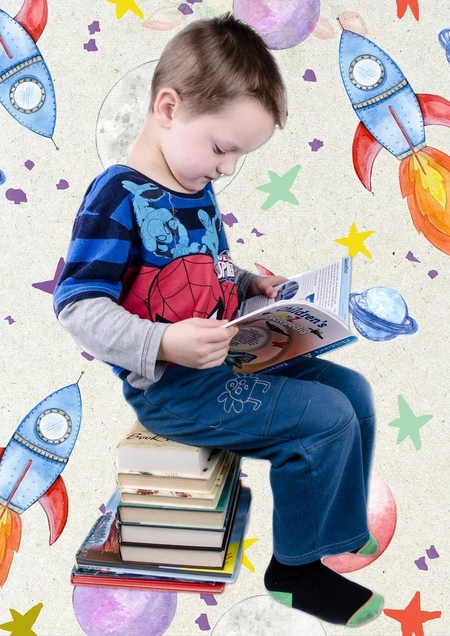
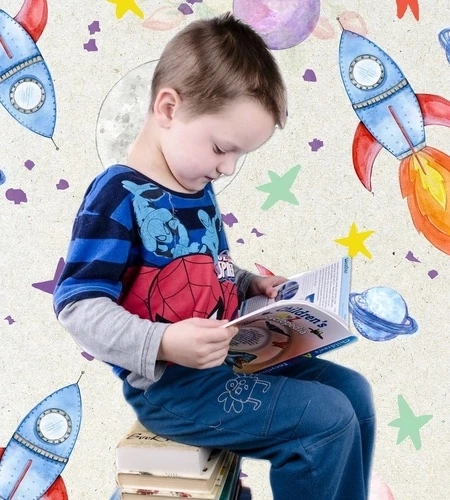
Completed the smaller hero with two different layouts for mobile and desktop. Also completed the Opening Hours section of the plan your visit page.

diff --git a/html/plan-visit.html b/html/plan-visit.html
@@ -17,6 +17,7 @@
         rel="stylesheet">
 
     <link rel="stylesheet" href="/stylesheet.css">
+    <link rel="stylesheet" href="/css/pages/plan-visit.css">
     <link rel="apple-touch-icon" sizes="180x180" href="assets/favicon/apple-touch-icon.png">
     <link rel="icon" type="image/png" sizes="32x32" href="assets/favicon/favicon-32x32.png">
     <link rel="icon" type="image/png" sizes="16x16" href="assets/favicon/favicon-16x16.png">
@@ -55,12 +56,97 @@
     </header>
     <main class="" id="main-content">
         <section class="hero-small">
+            <div class="hero-small__content">
+                <div class="hero-small__text">
+                    <h1>Plan your visit</h1>
+                    <p class="hero-small__text__p">Are you looking for information on how to get to the museum,
+                        the ticket prices, what exhibits are on, or our opening hours? You are in the right place.
+                    </p>
+                </div>
+                <div class="hero-small__cta">
+                    <a href="#opening-hours" class="button primary no-arrow">Opening hours</a>
+                    <a href="#getting-here" class="button primary no-arrow">Getting here</a>
+                    <a href="#prices" class="button primary no-arrow">Prices</a>
+                </div>
+            </div>
+            <div class="hero-small__image-container">
+                <img src="/assets/images/night-at-museum-roberto-nickson.webp"
+                    alt="Overview of museum in the night, with large elephant exhibition and grand marble arches of the different floors.">
+            </div>
         </section>
-        <section class="opening-hours">
+        <section class="opening-hours" id="opening-hours">
+            <div class="section__header">
+                <h2 class="opening-hours__heading">Opening hours</h2>
+                <!-- <p class="opening-hours__text">Check the opening hours of the museum, our cafe, and our gift
+                    shop. If you have any questions, or need help with a special event. Please contact us by following
+                    the links below.</p> -->
+            </div>
+            <div class="opening-hours__cards">
+                <div class="opening-hours__specific">
+                    <h3>Museum opening hours:</h3>
+                    <p>Monday to Thursday: 10:00 - 16:00</p>
+                    <p>Friday and Saturday: 10:00 - 19:00</p>
+                    <p>Sunday: 10:00 - 18:00</p>
+                </div>
+                <article class="card-s">
+                    <div class="card-s__image"><img src="/assets/images/scott-webb-102825.webp"
+                            alt="The outside wall of the Community Science Museum covered in large colorful tiles, with the word MUSEUM spelled out in differently colored tiles.">
+                    </div>
+                    <div class="card-s__content">
+                        <div class="card-s__text">
+                            <h3 class="card-s__heading">Museum</h3>
+                            <p class="card-s__description">The museum is open for all visitors in our opening hours.
+                                Guided tours are available within the opening hours. Planning an event, or have a
+                                request? Send us a message! </p>
+                        </div>
+                        <a href="/html/about.html#contact-us" class="button primary medium">Contact us</a>
+                    </div>
+                </article>
+                <div class="opening-hours__specific">
+                    <h3>Café opening hours:</h3>
+                    <p>Monday to Thursday: 11:00 - 15:00</p>
+                    <p>Friday and Saturday: 10:00 - 18:00</p>
+                    <p>Sunday: 10:00 - 17:00</p>
+                </div>
+                <article class="card-s">
+                    <div class="card-s__image"><img src="/assets/images/kids-ASphotofamily.webp"
+                            alt="A young boy and his todler sister standing next to a cafe counter looking at the selection of juices and fresh food.">
+                    </div>
+                    <div class="card-s__content">
+                        <div class="card-s__text">
+                            <h3 class="card-s__heading">Café</h3>
+                            <p class="card-s__description">There is a café attached to the museum where you can get
+                                light lunches, soft drinks, coffee, snacks and more. Having a party, or any special
+                                requests? Get in touch! </p>
+                        </div>
+                        <a href="/html/about.html#contact-us" class="button primary medium">Contact us</a>
+                    </div>
+                </article>
+                <div class="opening-hours__specific">
+                    <h3>Shop opening hours:</h3>
+                    <p>Monday to Thursday: 10:00 - 16:00</p>
+                    <p>Friday and Saturday: 10:00 - 19:00</p>
+                    <p>Sunday: 10:00 - 18:00</p>
+                </div>
+                <article class="card-s">
+                    <div class="card-s__image"><img src="/assets/images/reading-2762010_1280.webp"
+                            alt="A young boy reading a book in front of a background image with drawings of rockets, stars, and planets.">
+                    </div>
+                    <div class="card-s__content">
+                        <div class="card-s__text">
+                            <h3 class="card-s__heading">Shop</h3>
+                            <p class="card-s__description">Our shop offers a range of memorabilia from the museum and
+                                activity packs to continue exploring science at home. We also provide kits for schools.
+                                Want an offer? </p>
+                        </div>
+                        <a href="/html/about.html#contact-us" class="button primary medium">Contact us</a>
+                    </div>
+                </article>
+            </div>
         </section>
-        <section class="getting-here">
+        <section class="getting-here" id="getting-here">
         </section>
-        <section class="prices">
+        <section class="prices" id="prices">
         </section>
     </main>
     <footer class="footer">

diff --git a/css/components/sections/hero-small.css b/css/components/sections/hero-small.css
@@ -1,0 +1,83 @@
+.hero-small {
+    display: flex;
+    justify-content: center;
+    align-items: center;
+    color: var(--color-white);
+    background-image: linear-gradient(#0D0D0D90, #0D0D0D90),
+        url(/assets/images/night-at-museum-roberto-nickson.webp);
+    background-size: cover;
+    min-height: 85vh;
+}
+
+.hero-small__content {
+    display: flex;
+    flex-direction: column;
+    gap: var(--gap-xlarge);
+    padding-left: var(--padding-large);
+    padding-right: var(--padding-large);
+    max-width: 1028px;
+}
+
+.hero-small__text {
+    display: flex;
+    flex-direction: column;
+    gap: var(--gap-large);
+    max-width: 720px;
+}
+
+.hero-small__text__p {
+    font-size: var(--body-large);
+    line-height: 28px;
+}
+
+.hero-small__cta {
+    display: flex;
+    justify-content: center;
+    align-items: center;
+    flex-wrap: wrap;
+    gap: var(--gap-medium);
+    max-width: 720px;
+}
+
+.hero-small__image-container {
+    display: none;
+}
+
+/* Tablet 768px */
+@media (min-width: 768px) {
+    .hero-small {
+        display: flex;
+        justify-content: center;
+        align-items: center;
+        color: var(--color-white);
+        background-image: none;
+        background-color: var(--color-black);
+        gap: 16px;
+        min-height: 60vh;
+    }
+
+    .hero-small__content {
+        padding-right: 0;
+        max-width: 50%;
+    }
+
+    .hero-small__image-container {
+        display: flex;
+        justify-content: center;
+        align-items: center;
+        padding-right: var(--padding-large);
+    }
+
+}
+
+/* Laptop 1024px */
+@media (min-width: 1024px) {
+
+    .hero-small__content {
+        max-width: 504px;
+    }
+
+    .hero-small__image-container {
+        max-width: 504px;
+    }
+}

diff --git a/css/pages/plan-visit.css b/css/pages/plan-visit.css
@@ -1,0 +1,58 @@
+@import url('/css/components/sections/hero-small.css');
+@import url('/css/components/cards/card-s.css');
+@import url('/css/components/cards/card-m.css');
+
+/* Sections */
+.section__header {
+    display: flex;
+    flex-direction: column;
+    min-width: 328px;
+    max-width: 330px;
+    margin: 0 auto 0 auto;
+}
+
+/* Opening hours */
+.opening-hours {
+    display: flex;
+    flex-direction: column;
+    justify-content: center;
+    align-items: center;
+    background-color: var(--color-darkgrey);
+}
+
+.opening-hours__heading {
+    color: var(--color-white);
+    align-self: flex-start;
+    padding-top: var(--padding-medium);
+    padding-bottom: var(--padding-small);
+}
+
+.opening-hours__text {
+    color: var(--color-white);
+    padding-bottom: var(--padding-large);
+
+}
+
+.opening-hours__cards {
+    display: flex;
+    flex-wrap: wrap;
+    justify-content: center;
+    align-items: center;
+    gap: var(--gap-medium);
+    padding: var(--padding-medium);
+}
+
+.opening-hours__specific {
+    display: flex;
+    flex-direction: column;
+    gap: var(--gap-medium);
+    min-width: 328px;
+    max-width: 330px;
+    margin: 0 auto 0 auto;
+    padding-top: var(--padding-large);
+    color: var(--color-white);
+}
+
+.opening-hours__specific p {
+    font-size: var(--body-large);
+}

diff --git a/index.html b/index.html
@@ -15,7 +15,7 @@
     <link
         href="https://fonts.googleapis.com/css2?family=Lexend+Deca:wght@100..900&family=Quicksand:wght@300..700&display=swap"
         rel="stylesheet">
-
+    <link rel="stylesheet" href="css/pages/index.css">
     <link rel="stylesheet" href="stylesheet.css">
     <link rel="apple-touch-icon" sizes="180x180" href="assets/favicon/apple-touch-icon.png">
     <link rel="icon" type="image/png" sizes="32x32" href="assets/favicon/favicon-32x32.png">

diff --git a/stylesheet.css b/stylesheet.css
@@ -4,10 +4,10 @@
 @import url('css/components/footer.css');
 @import url('css/components/buttons/buttons.css');
 @import url('css/components/buttons/burger-button.css');
-@import url('css/components/sections/hero.css');
+/* @import url('css/components/sections/hero.css');
 @import url('css/components/cards/card-s.css');
 @import url('css/components/cards/card-l.css');
-@import url('css/pages/index.css');
+@import url('css/pages/index.css'); */
 
 
 /* Global styling */

diff --git a/css/components/buttons/buttons.css b/css/components/buttons/buttons.css
@@ -61,3 +61,11 @@
 .button.pink {
     background-color: var(--color-funpink);
 }
+
+/* Button arrow */
+@media (max-width: 375px) {
+    .button.no-arrow {
+        background-image: none;
+        padding-right: 16px;
+    }
+}

diff --git a/css/pages/index.css b/css/pages/index.css
@@ -1,3 +1,7 @@
+@import url('/css/components/sections/hero.css');
+@import url('/css/components/cards/card-s.css');
+@import url('/css/components/cards/card-l.css');
+
 /* Sections */
 .section__header {
     display: flex;
